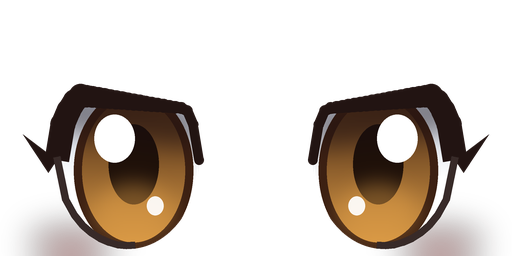
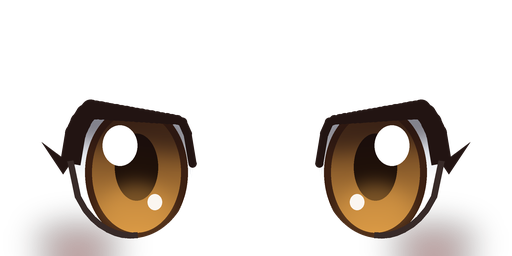
Menu polish: balanced eyes, candlelit hall, warmer title
- Faces: eyes a little smaller and brows lower so they sit better on the
  heads (tools/make_faces.py).
- Hall screens light their own set: little sky light, warm candle
  wheels and wall candelabras, a soft key light on the fighters, dark
  plank floor, darker stone and panelling, and a round red-and-gold rug
  under the hero. The world's lighting is restored when a match starts.
- Ready Up: fighters a touch bigger, casters mid-spell.
- Title: golden afternoon sun, richer colour, market tents on the
  terrace, a second waterfall and a lantern among bushes; the Knight
  stands at ease.

Claude-Session: https://claude.ai/code/session_01SxxkL1WPAirYaLxYu5DhSh

Changed region(s): [[0.5938, 0.3125, 0.9688, 1.0], [0.0312, 0.3125, 0.4062, 1.0]]

diff --git a/tools/make_faces.py b/tools/make_faces.py
@@ -49,17 +49,17 @@ def vgrad(size, top, bottom, y_from=0, y_to=None):
 # Per-style eye shapes: size, how much the upper lid cuts in (0 none), the
 # lid's tilt toward the nose, lash weight and highlight size.
 SHAPES = {
-    "bold": dict(w=0.2, h=0.25, lid=0.17, tilt=0.05, lash=1.0, hi=1.0, iris=0.84),
-    "bright": dict(w=0.205, h=0.265, lid=0.05, tilt=-0.02, lash=0.9, hi=1.2, iris=0.82),
-    "fierce": dict(w=0.205, h=0.22, lid=0.3, tilt=0.12, lash=1.15, hi=0.85, iris=0.86),
-    "gentle": dict(w=0.2, h=0.24, lid=0.36, tilt=-0.06, lash=0.9, hi=0.95, iris=0.82),
+    "bold": dict(w=0.172, h=0.21, lid=0.17, tilt=0.05, lash=1.0, hi=1.0, iris=0.84),
+    "bright": dict(w=0.176, h=0.222, lid=0.05, tilt=-0.02, lash=0.9, hi=1.2, iris=0.82),
+    "fierce": dict(w=0.176, h=0.185, lid=0.3, tilt=0.12, lash=1.15, hi=0.85, iris=0.86),
+    "gentle": dict(w=0.172, h=0.2, lid=0.36, tilt=-0.06, lash=0.9, hi=0.95, iris=0.82),
 }
 BROWS = {
     # (inner (x, y), outer (x, y), arch height, thickness) for the right eye, in head units
-    "bold": ((0.07, 1.79), (0.29, 1.805), -0.004, 0.03),
-    "bright": ((0.08, 1.805), (0.29, 1.815), 0.018, 0.024),
-    "fierce": ((0.065, 1.77), (0.3, 1.825), -0.01, 0.032),
-    "gentle": ((0.08, 1.81), (0.29, 1.79), 0.014, 0.022),
+    "bold": ((0.08, 1.765), (0.27, 1.78), -0.004, 0.026),
+    "bright": ((0.09, 1.78), (0.27, 1.79), 0.016, 0.021),
+    "fierce": ((0.075, 1.745), (0.28, 1.795), -0.01, 0.028),
+    "gentle": ((0.09, 1.785), (0.27, 1.765), 0.012, 0.019),
 }
 
 
@@ -162,8 +162,8 @@ def eyes_texture(style, iris):
     img = Image.new("RGBA", (EW * SS, EH * SS), (0, 0, 0, 0))
     shape = SHAPES[style]
     for side in (-1, 1):
-        blush(img, side * 0.26, 1.5)
-        eye(img, side * 0.18, 1.615, side, shape, iris)
+        blush(img, side * 0.25, 1.5)
+        eye(img, side * 0.175, 1.61, side, shape, iris)
     img = img.resize((EW, EH), Image.LANCZOS)
     img.save(f"{OUT}/face_eyes_{style}_{iris}.png")
 
